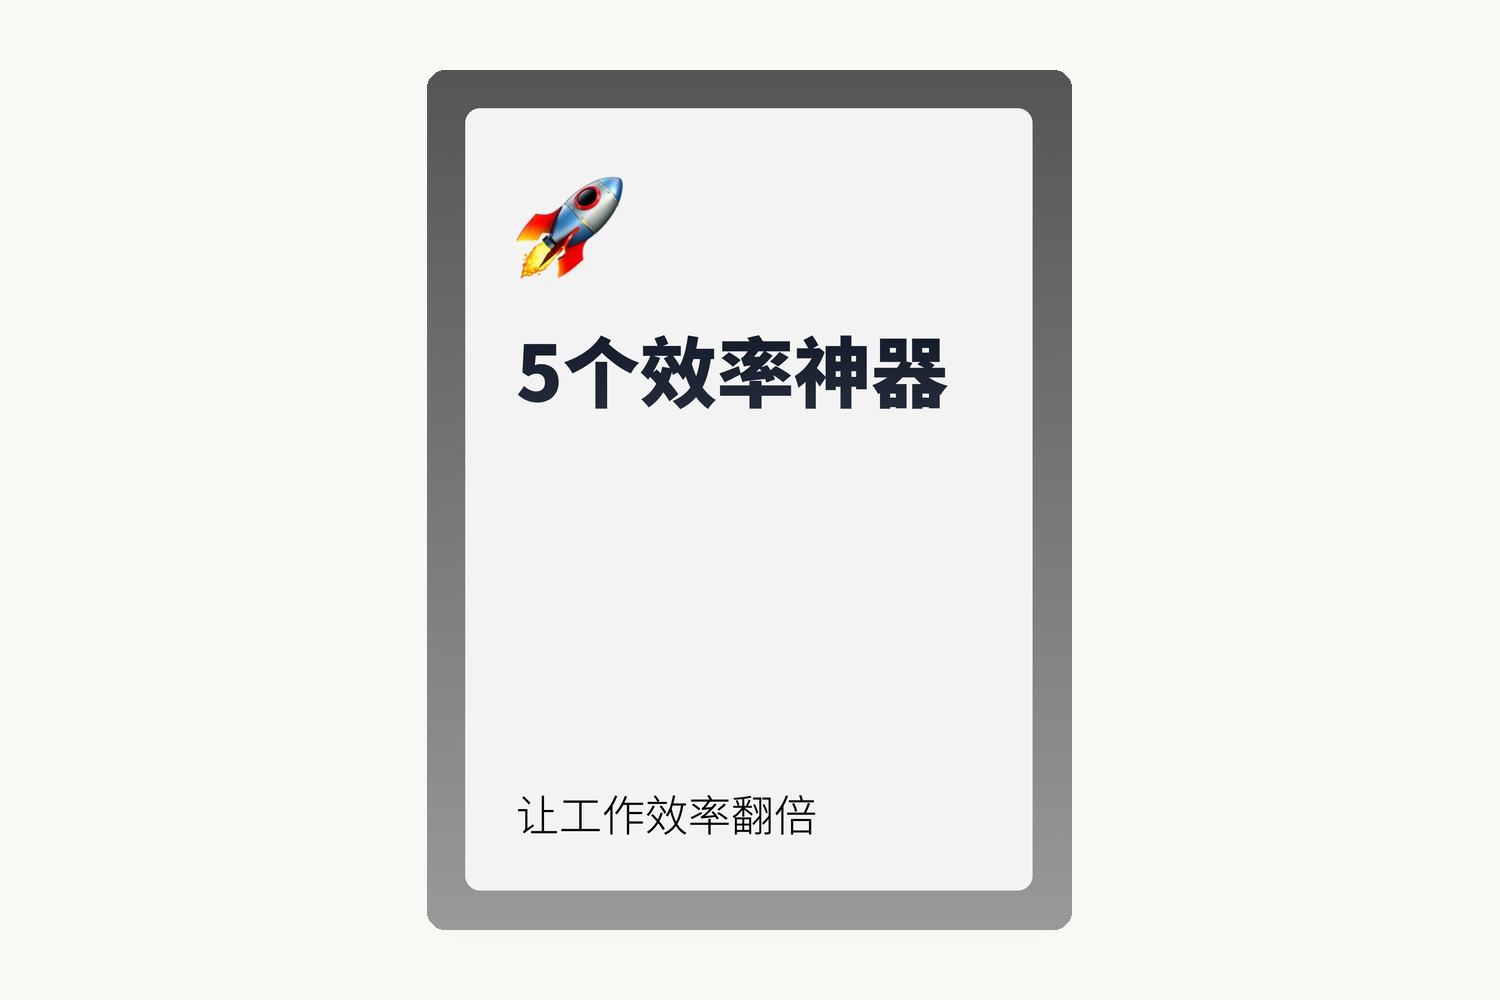
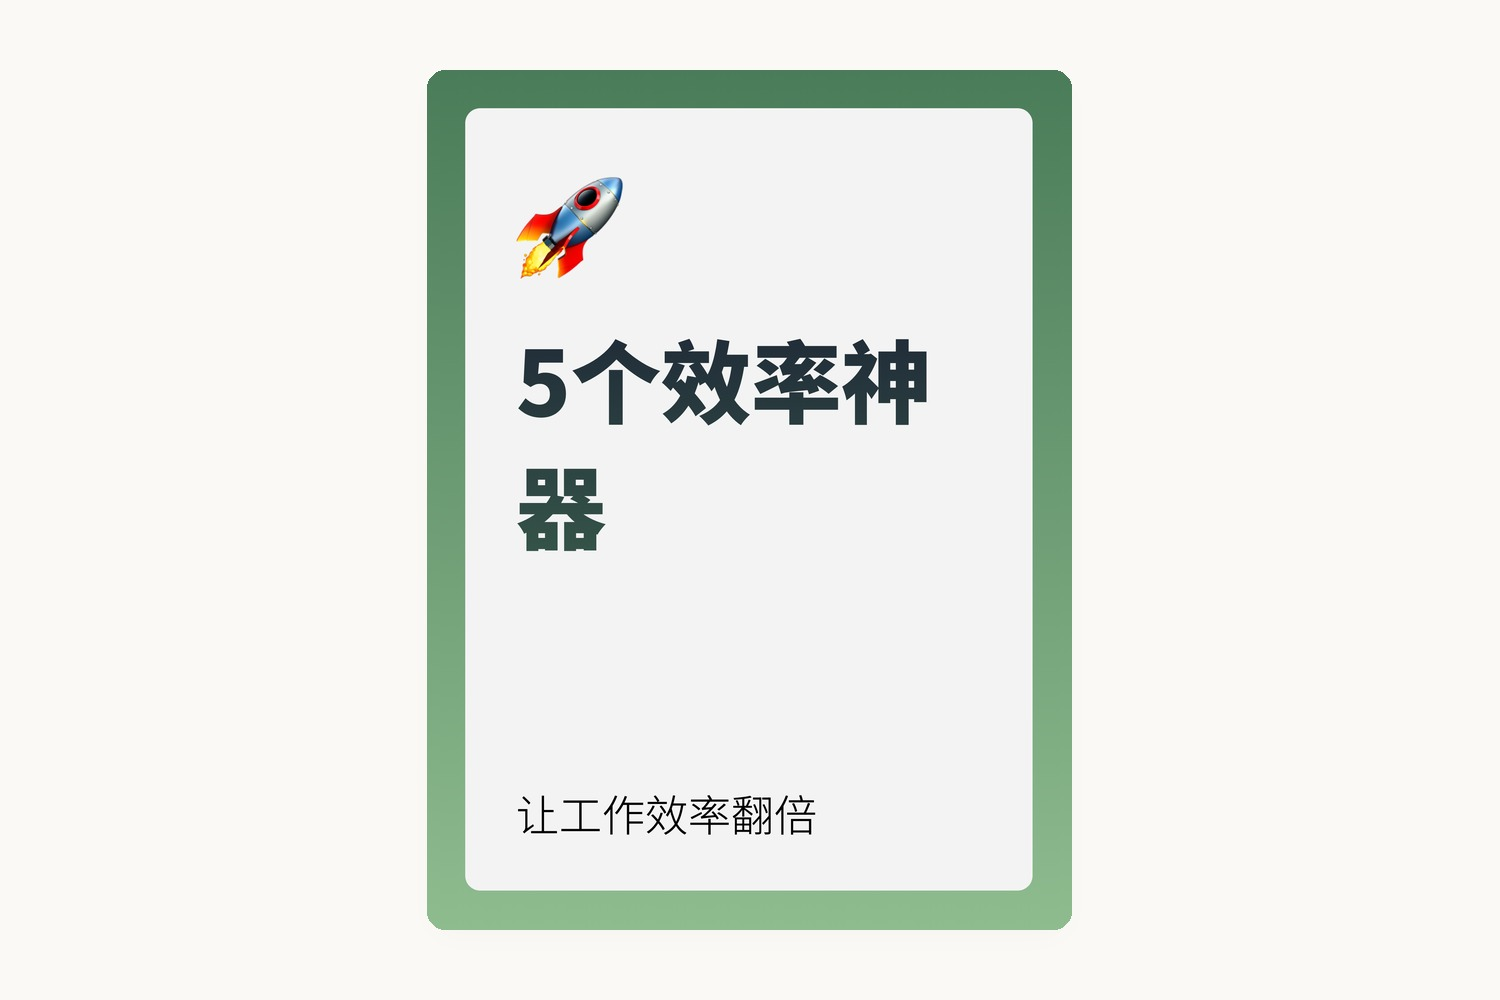
Use botanical forest-green template for content automation
Replace Sketch cover with Auto-Redbook botanical theme (森林绿)
and refresh the detail gallery to matching cards.

Changed region(s): [[0.276, 0.062, 0.736, 0.93]]

diff --git a/src/data/projects.ts b/src/data/projects.ts
@@ -182,10 +182,10 @@ export const projects: Project[] = [
     year: "2024",
     cover: "/covers/content-automation.jpg",
     gallery: [
-      { src: "/covers/autopublish/sketch.jpg", caption: { zh: "生成模板 · Sketch", en: "Template · Sketch" } },
-      { src: "/covers/autopublish/autofit.jpg", caption: { zh: "生成模板 · Auto-fit", en: "Template · Auto-fit" } },
-      { src: "/covers/autopublish/geometric.jpg", caption: { zh: "生成模板 · Geometric", en: "Template · Geometric" } },
-      { src: "/covers/autopublish/retro.jpg", caption: { zh: "生成模板 · Retro", en: "Template · Retro" } },
+      { src: "/covers/autopublish/botanical-cover.jpg", caption: { zh: "Botanical · 森林绿封面", en: "Botanical · forest cover" } },
+      { src: "/covers/autopublish/botanical-1.jpg", caption: { zh: "Botanical · 卡片 1", en: "Botanical · card 1" } },
+      { src: "/covers/autopublish/botanical-2.jpg", caption: { zh: "Botanical · 卡片 2", en: "Botanical · card 2" } },
+      { src: "/covers/autopublish/botanical-3.jpg", caption: { zh: "Botanical · 卡片 3", en: "Botanical · card 3" } },
     ],
   }
 ];
